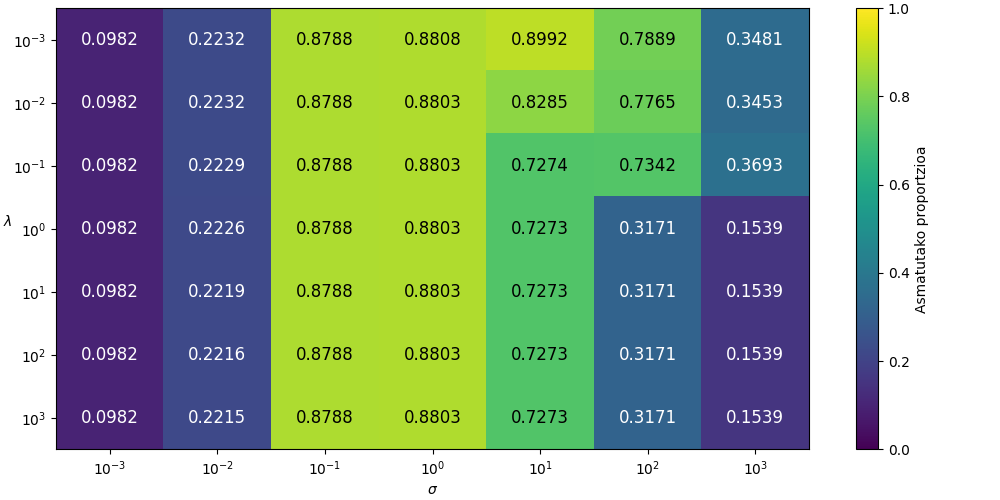
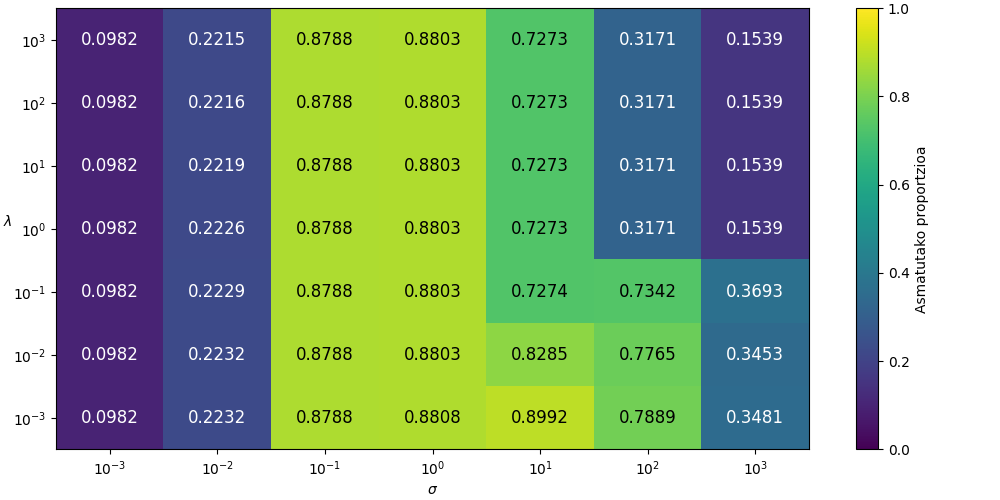
konpondu grafikoak C eta lambda behetik gora joateko

diff --git a/Modelo_hoberena_aukeratzen/Nire_modeloak.py b/Modelo_hoberena_aukeratzen/Nire_modeloak.py
@@ -85,45 +85,48 @@ print(f"INFORMAZIOA KARGATUTA: \n\n Noten matrizea kernel gaussiarra = \n{Notak_
 
 
 # # Grafikoa RBF
+matrizea = np.flip(Notak_matrizea_Nire_rbf,0)
 plt.figure(figsize=(10, 5))
-plt.imshow(Notak_matrizea_Nire_rbf, aspect="auto")
+plt.imshow(matrizea, aspect="auto")
 plt.xticks(np.arange(0, 7, 1), [r'$10^{{{}}}$'.format(j) for j in [-3,-2,-1,0,1,2,3]])
 plt.xlabel(r"$\sigma$")
-plt.yticks(np.arange(0, 7, 1), [r'$10^{{{}}}$'.format(j) for j in [-3,-2,-1,0,1,2,3]])
+plt.yticks(np.arange(0, 7, 1), [r'$10^{{{}}}$'.format(j) for j in [3,2,1,0,-1,-2,-3]])
 plt.ylabel(r"$\lambda$", rotation = 0)
 # plt.title("Nire modelo desberdinen asmatze proportzioa baliozta-multzoan:\nKernel gaussiarra 1000 iteraziorekin klase bakoitzerako")
 plt.colorbar(label='Asmatutako proportzioa')
 plt.clim(0,1)
 plt.tight_layout(pad = 0.2)
-for i in range(Notak_matrizea_Nire_rbf.shape[0]):
-    for j in range(Notak_matrizea_Nire_rbf.shape[1]):
-        plt.text(j, i, '{:.4f}'.format(Notak_matrizea_Nire_rbf[i, j]), ha='center', va='center', color='white' if Notak_matrizea_Nire_rbf[i, j] < 0.5 else "black", fontsize = 12)
+for i in range(matrizea.shape[0]):
+    for j in range(matrizea.shape[1]):
+        plt.text(j, i, '{:.4f}'.format(matrizea[i, j]), ha='center', va='center', color='white' if matrizea[i, j] < 0.5 else "black", fontsize = 12)
 plt.show()
 
 
 # # Grafikoa RBF handitua
-plt.imshow(Notak_matrizea_Nire_rbf_handitua)
+matrizea = np.flip(Notak_matrizea_Nire_rbf_handitua,0)
+plt.figure(figsize=(5, 7))
+plt.imshow(matrizea, aspect="auto")
 plt.xticks(np.arange(0, 7, 1), [r'$10^{{{}}}$'.format(j) for j in [-3,-2,-1,0,1,2,3]])
 plt.xlabel(r"$\sigma$")
-plt.yticks(np.arange(0, 14, 1), [r'$10^{{{}}}$'.format(j) for j in [-10,-9,-8,-7,-6,-5,-4,-3,-2,-1,0,1,2,3]])
+plt.yticks(np.arange(0, 14, 1), [r'$10^{{{}}}$'.format(j) for j in [-10,-9,-8,-7,-6,-5,-4,-3,-2,-1,0,1,2,3][::-1]])
 plt.ylabel(r"$\lambda$", rotation = 0)
-plt.title("Nire modelo desberdinen asmatze proportzioa baliozta-multzoan:\nKernel gaussiarra 1000 iteraziorekin klase bakoitzerako, bertsio handitua")
+# plt.title("Nire modelo desberdinen asmatze proportzioa baliozta-multzoan:\nKernel gaussiarra 1000 iteraziorekin klase bakoitzerako, bertsio handitua")
 plt.colorbar(label='Asmatutako proportzioa')
 plt.clim(0,1)
-plt.tight_layout(pad = 0.2)
-# for i in range(Notak_matrizea_Nire_rbf_handitua.shape[0]):
-#     for j in range(Notak_matrizea_Nire_rbf_handitua.shape[1]):
-#         plt.text(j, i, '{:.2f}'.format(Notak_matrizea_Nire_rbf_handitua[i, j]), ha='center', va='center', color='white' if Notak_matrizea_Nire_rbf_handitua[i, j] < 0.5 else "black")
+# plt.tight_layout(pad = 0.2)
+# for i in range(matrizea.shape[0]):
+#     for j in range(matrizea.shape[1]):
+#         plt.text(j, i, '{:.2f}'.format(matrizea[i, j]), ha='center', va='center', color='white' if matrizea[i, j] < 0.5 else "black")
 plt.show()
 
 
 # # Grafikoa RBF handitua (goiko zatia bakarrik)
-matrizea = Notak_matrizea_Nire_rbf_handitua[0:7,:]
+matrizea = np.flip(Notak_matrizea_Nire_rbf_handitua[0:7,:],0)
 plt.figure(figsize=(10, 5))
 plt.imshow(matrizea,aspect="auto")
 plt.xticks(np.arange(0, 7, 1), [r'$10^{{{}}}$'.format(j) for j in [-3,-2,-1,0,1,2,3]])
 plt.xlabel(r"$\sigma$")
-plt.yticks(np.arange(0, 7, 1), [r'$10^{{{}}}$'.format(j) for j in [-10,-9,-8,-7,-6,-5,-4]])
+plt.yticks(np.arange(0, 7, 1), [r'$10^{{{}}}$'.format(j) for j in [-10,-9,-8,-7,-6,-5,-4][::-1]])
 plt.ylabel(r"$\lambda$", rotation = 0)
 # plt.title("Nire modelo desberdinen asmatze proportzioa baliozta-multzoan:\nKernel gaussiarra 1000 iteraziorekin klase bakoitzerako, bigarren zatia")
 plt.colorbar(label='Asmatutako proportzioa')
@@ -136,19 +139,20 @@ plt.show()
 
 
 # # Grafikoa kernel polinomiala
+matrizea = np.flip(Notak_matrizea_Nire_poly,0)
 plt.figure(figsize=(10, 5))
-plt.imshow(Notak_matrizea_Nire_poly, aspect= "auto")
+plt.imshow(matrizea, aspect= "auto")
 plt.xticks(np.arange(0, 7, 1), [2,3,4,5,6,7,8])
 plt.xlabel("polinomioaren maila")
-plt.yticks(np.arange(0, 7, 1), [r'$10^{{{}}}$'.format(j) for j in [-3,-2,-1,0,1,2,3]])
+plt.yticks(np.arange(0, 7, 1), [r'$10^{{{}}}$'.format(j) for j in [-3,-2,-1,0,1,2,3][::-1]])
 plt.ylabel(r"$\lambda$", rotation = 0)
 # plt.title("Nire modelo desberdinen asmatze proportzioa baliozta-multzoan:\nKernel polinomiala 1000 iteraziorekin klase bakoitzerako")
 plt.colorbar(label='Asmatutako proportzioa')
 plt.clim(0,1)
 plt.tight_layout(pad = 0.2)
-for i in range(Notak_matrizea_Nire_poly.shape[0]):
-    for j in range(Notak_matrizea_Nire_poly.shape[1]):
-        plt.text(j, i, '{:.4f}'.format(Notak_matrizea_Nire_poly[i, j]), ha='center', va='center', color='white' if Notak_matrizea_Nire_poly[i, j] < 0.5 else "black", fontsize = 12)
+for i in range(matrizea.shape[0]):
+    for j in range(matrizea.shape[1]):
+        plt.text(j, i, '{:.4f}'.format(matrizea[i, j]), ha='center', va='center', color='white' if matrizea[i, j] < 0.5 else "black", fontsize = 12)
 plt.show()
 
 

diff --git a/Modelo_hoberena_aukeratzen/Scikit_modeloak.py b/Modelo_hoberena_aukeratzen/Scikit_modeloak.py
@@ -77,46 +77,48 @@ print(f"INFORMAZIOA KARGATUTA: \n\n Noten matrizea kernel gaussiarra = \n{Notak_
 
 
 # # Grafikoa RBF:
+matrizea = np.flip(Notak_matrizea_rbf,0)
 plt.figure(figsize=(10, 5))
-plt.imshow(Notak_matrizea_rbf, aspect= "auto")
+plt.imshow(matrizea, aspect= "auto")
 plt.xticks(np.arange(0, 7, 1), [r'$10^{{{}}}$'.format(j) for j in [-3,-2,-1,0,1,2,3]])
 plt.xlabel(r"$\gamma$")
-plt.yticks(np.arange(0, 7, 1), [r'$10^{{{}}}$'.format(j) for j in [-3,-2,-1,0,1,2,3]])
+plt.yticks(np.arange(0, 7, 1), [r'$10^{{{}}}$'.format(j) for j in [-3,-2,-1,0,1,2,3][::-1]])
 plt.ylabel("C", rotation = 0)
 # plt.title("Modelo desberdinen asmatze proportzioa baliozta-multzoan:\nKernel gaussiarra")
 plt.colorbar(label='Asmatutako proportzioa')
 plt.clim(0,1)
 plt.tight_layout(pad = 0.2)
-for i in range(Notak_matrizea_rbf.shape[0]):
-    for j in range(Notak_matrizea_rbf.shape[1]):
-        plt.text(j, i, '{:.4f}'.format(Notak_matrizea_rbf[i, j]), ha='center', va='center', color='white' if Notak_matrizea_rbf[i, j] < 0.5 else "black", fontsize = 12)
+for i in range(matrizea.shape[0]):
+    for j in range(matrizea.shape[1]):
+        plt.text(j, i, '{:.4f}'.format(matrizea[i, j]), ha='center', va='center', color='white' if matrizea[i, j] < 0.5 else "black", fontsize = 12)
 plt.show()
 
 
 # # Grafikoa poly
+matrizea = np.flip(Notak_matrizea_poly,0)
 plt.figure(figsize = (10,5))
-plt.imshow(Notak_matrizea_poly, aspect= "auto")
+plt.imshow(matrizea, aspect= "auto")
 plt.xticks(np.arange(0, 7, 1), [2,3,4,5,6,7,8])
 plt.xlabel("polinomioaren maila")
-plt.yticks(np.arange(0, 7, 1), [r'$10^{{{}}}$'.format(j) for j in [-3,-2,-1,0,1,2,3]])
+plt.yticks(np.arange(0, 7, 1), [r'$10^{{{}}}$'.format(j) for j in [-3,-2,-1,0,1,2,3][::-1]])
 plt.ylabel("C", rotation = 0)
 # plt.title("Modelo desberdinen asmatze proportzioa baliozta-multzoan:\nKernel polinomiala")
 plt.colorbar(label='Asmatutako proportzioa')
 plt.clim(0,1)
 plt.tight_layout(pad = 0.2)
-for i in range(Notak_matrizea_poly.shape[0]):
-    for j in range(Notak_matrizea_poly.shape[1]):
-        plt.text(j, i, '{:.4f}'.format(Notak_matrizea_poly[i, j]), ha='center', va='center', color='white' if Notak_matrizea_poly[i, j] < 0.5 else "black", fontsize = 12)
+for i in range(matrizea.shape[0]):
+    for j in range(matrizea.shape[1]):
+        plt.text(j, i, '{:.4f}'.format(matrizea[i, j]), ha='center', va='center', color='white' if matrizea[i, j] < 0.5 else "black", fontsize = 12)
 plt.show()
 
 
 # # Grafikoa poly handitua
-
+matrizea = np.flip(Notak_matrizea_poly_handia,0)
 plt.figure(figsize=(10, 5))
-plt.imshow(Notak_matrizea_poly_handia, aspect = "auto")
+plt.imshow(matrizea, aspect = "auto")
 plt.xticks(np.arange(0, 19, 1), [i for i in range(2,21)])
 plt.xlabel("polinomioaren maila")
-plt.yticks(np.arange(0, 21, 1), [r'$10^{{{}}}$'.format(j) for j in range(-10,11)])
+plt.yticks(np.arange(0, 21, 1), [r'$10^{{{}}}$'.format(j) for j in range(10,-11,-1)])
 plt.ylabel("C", rotation = 0)
 plt.title("Modelo desberdinen asmatze proportzioa baliozta-multzoan:\nKernel polinomiala: bertsio handia")
 plt.colorbar(label='Asmatutako proportzioa')
